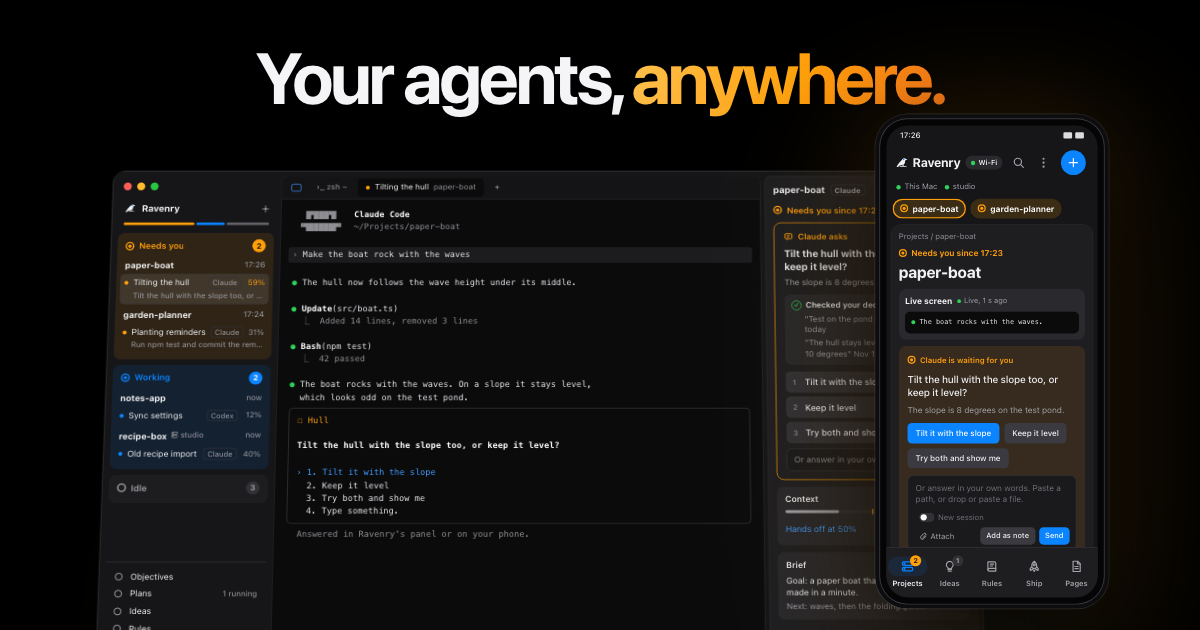
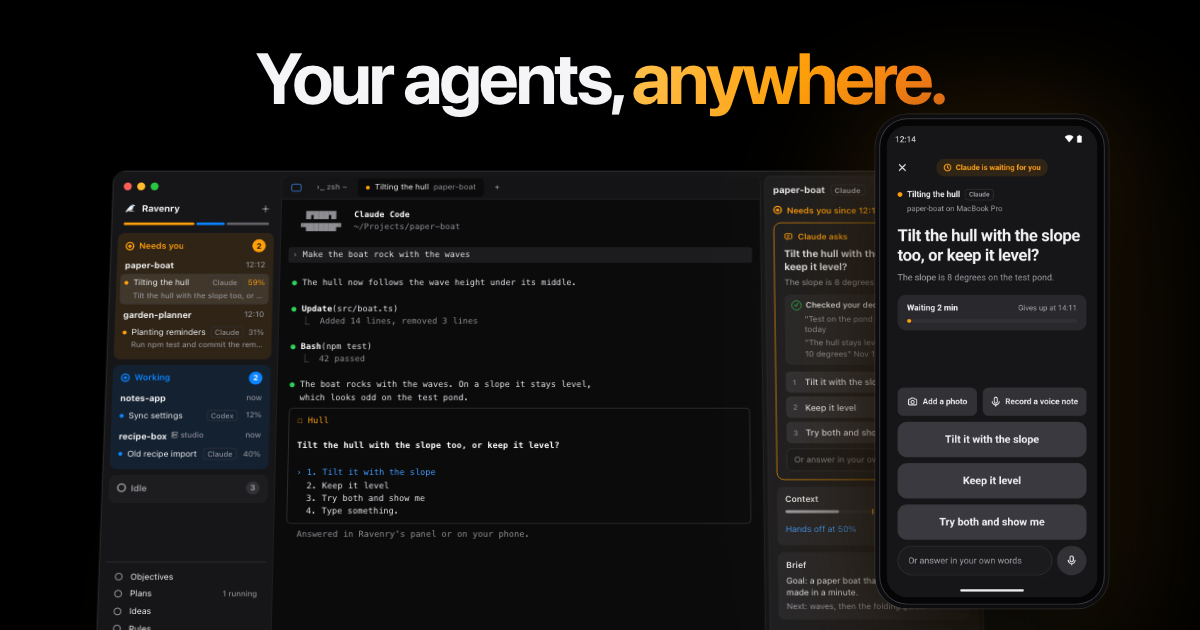
Site: the phones show the Android app's real screens, not a redraw
The hero's phone is the question card the app opens from its alert, and
the Phone section shows the same question on the board next to the real
notification shade: emulator screenshots of the Android app (0.1.61)
paired with a demo board, 600 px wide WebP (101 KB for the three).
The phone redraws and their CSS are gone. The Mac window's times now
match the phone (12:10 to 12:14, waiting 2 min). og-image regenerated;
shots.mjs serves .webp.

Changed region(s): [[0.74, 0.2111, 0.925, 0.9651]]

diff --git a/site/product.js b/site/product.js
@@ -13,31 +13,15 @@
   const boat = (tilt, hull) => `<svg viewBox="0 0 120 80"><rect width="120" height="80" fill="#D7E6F2"/><path d="M0 58 Q30 ${50 - tilt} 60 58 T120 58 V80 H0Z" fill="#6FA3CF"/><g transform="rotate(${tilt} 60 52)"><path d="M34 50 H86 L78 62 H42Z" fill="${hull}"/><path d="M60 22 V50 M60 24 L80 46 H60" stroke="#333" stroke-width="1.5" fill="#fff"/></g></svg>`;
   const nav = (n, extra = '') => `<div><svg viewBox="0 0 14 14" fill="none" stroke="currentColor" stroke-width="1.4"><circle cx="7" cy="7" r="5"/></svg>${n}${extra}</div>`;
 
-  // The phone's bottom bar, as the app draws it (hub/public/app.js, PI and
-  // renderPhoneNav): the same five icons, the lit one in a blue pill, counts as badges.
-  const pv20 = (d, extra = '') => `<svg width="22" height="22" viewBox="0 0 20 20" fill="none" stroke="currentColor" stroke-width="1.7" stroke-linecap="round" stroke-linejoin="round" aria-hidden="true"${extra}>${d}</svg>`;
-  const PI = {
-    projects: pv20('<rect x="2.5" y="3.5" width="15" height="5" rx="1.6"/><rect x="2.5" y="11.5" width="15" height="5" rx="1.6"/><circle cx="5.5" cy="6" r=".7" fill="currentColor"/><circle cx="5.5" cy="14" r=".7" fill="currentColor"/>'),
-    ideas: pv20('<path d="M7.2 14.5h5.6M7.8 17h4.4"/><path d="M10 2.8a5 5 0 0 0-3 9c.6.5 1 1.1 1 1.9h4c0-.8.4-1.4 1-1.9a5 5 0 0 0-3-9z"/>'),
-    rules: pv20('<path d="M4 3.5h9.5a2 2 0 0 1 2 2V17H6a2 2 0 0 1-2-2z"/><path d="M4 15a2 2 0 0 1 2-2h9.5M7.5 6.8h5M7.5 9.5h3.5"/>'),
-    ship: pv20('<path d="M10 2.5c2.6 1.8 3.8 4.6 3.6 8.2l-1.6 2.3H8l-1.6-2.3C6.2 7.1 7.4 4.3 10 2.5z"/><circle cx="10" cy="7.7" r="1.4"/><path d="M6.4 10.7L4 13.2l.4 2.8 3-1.6M13.6 10.7l2.4 2.5-.4 2.8-3-1.6M9 15.5l1 2 1-2"/>'),
-    pages: pv20('<path d="M5 2.5h6.8l3.7 3.7v11.3H5z"/><path d="M11.5 2.5v4h4M7.6 10.2h5M7.6 13.2h5"/>'),
-    search: pv20('<circle cx="8.8" cy="8.8" r="5.3"/><path d="M12.8 12.8l4 4"/>'),
-    kebab: '<svg width="22" height="22" viewBox="0 0 20 20" fill="currentColor" aria-hidden="true"><circle cx="10" cy="4.2" r="1.6"/><circle cx="10" cy="10" r="1.6"/><circle cx="10" cy="15.8" r="1.6"/></svg>',
-    plus: pv20('<path d="M10 4v12M4 10h12"/>', ' stroke-width="2"'),
-  };
-  const badge = (you, n) => (you ? `<b class="you">${you}</b>` : n ? `<b>${n}</b>` : '');
-  const tabbar = () => `<div class="rv-tabbar">${[['projects', 'Projects', badge(2, 0)], ['ideas', 'Ideas', badge(0, 1)], ['rules', 'Rules', ''], ['ship', 'Ship', ''], ['pages', 'Pages', '']].map(([k, label, b], i) => `<div${i === 0 ? ' class="on"' : ''}><span class="pill">${PI[k]}${b}</span>${label}</div>`).join('')}</div>`;
-
   const sidebar = (o = {}) => `
     <div class="rv-side">
       <div class="rv-lights"><i></i><i></i><i></i></div>
       <div class="rv-brand">${mark(18)}Ravenry<span class="plus">+</span></div>
       <div class="rv-tri"><i></i><i></i><i></i></div>
       <div class="rv-sec you"><div class="rv-sh">${ring}Needs you<span class="rv-cnt">2</span></div>
-        <div class="rv-proj">paper-boat<span>17:26</span></div>
+        <div class="rv-proj">paper-boat<span>12:12</span></div>
         <div class="rv-row on"><div class="rv-r1"><i class="rv-dot you"></i>Tilting the hull<span class="rv-tag">Claude</span><span class="rv-pct hot">59%</span></div><div class="rv-r2">Tilt the hull with the slope too, or keep it level?</div></div>
-        <div class="rv-proj">garden-planner<span>17:24</span></div>
+        <div class="rv-proj">garden-planner<span>12:10</span></div>
         <div class="rv-row"><div class="rv-r1"><i class="rv-dot you"></i>Planting reminders<span class="rv-tag">Claude</span><span class="rv-pct">31%</span></div><div class="rv-r2">Run npm test and commit the reminders?</div></div>
       </div>
       <div class="rv-sec work"><div class="rv-sh">${ring}Working<span class="rv-cnt">2</span></div>
@@ -76,7 +60,7 @@
 
   const askCard = (o = {}) => `
     <div class="rv-card">
-      <div class="rv-ch">${askIc}Claude asks<span>waiting 3 min</span></div>
+      <div class="rv-ch">${askIc}Claude asks<span>waiting 2 min</span></div>
       <div class="rv-q">Tilt the hull with the slope too, or keep it level?</div>
       <div class="rv-p">The slope is 8 degrees on the test pond.</div>
       ${o.dec === false ? '' : `<div class="rv-dec"><b>Checked your decisions first</b><p>"Test on the pond before the bath" today</p><p>"The hull stays level on slopes under 10 degrees" Nov 13</p></div>`}
@@ -114,7 +98,7 @@
   const panel = `
     <div class="rv-panel">
       <div class="rv-ph">paper-boat<span class="rv-tag">Claude</span></div>
-      <div class="rv-since">${ring}Needs you since 17:23</div>
+      <div class="rv-since">${ring}Needs you since 12:12</div>
       ${askCard()}
       <div class="rv-box" style="margin-top:10px"><h5>Context<span>312k of 1M</span></h5><div class="rv-bar"><i></i><b></b></div><div style="display:flex;justify-content:space-between;align-items:center"><span class="rv-link">Hands off at 50%</span><span class="rv-btn">Hand off now</span></div></div>
       <div class="rv-box"><h5>Brief<span>›</span></h5><div style="font-size:12.5px">Goal: a paper boat that floats on any pond, made in a minute.</div><div style="font-size:12px;color:var(--tx2);margin-top:4px">Next: waves, then the folding guide.</div></div>
@@ -137,42 +121,6 @@
   </div>`;
   const board = () => `<div class="rv-mac" style="width:260px;height:auto;padding:6px">${sidebar({ nav: false })}</div>`;
 
-  const phoneProjects = () => `<div class="rv-phone"><div class="rv-screen">
-    <div class="rv-sb">17:26<span><i></i><i></i></span></div>
-    <div class="rv-ah">${mark(22)}Ravenry<span class="rv-pill">Wi-Fi</span><span class="rv-fab">+</span></div>
-    <div class="rv-machines"><span>This Mac</span><span>studio</span></div>
-    <div class="rv-chips"><span class="rv-chip you on">${ring}paper-boat</span><span class="rv-chip you">${ring}garden-planner</span><span class="rv-chip work">${ring}notes-app</span><span class="rv-chip idle">3 idle ⌄</span></div>
-    <div class="rv-pc"><div class="crumb">Projects / paper-boat</div><div class="since">${ring}Needs you since 17:23</div><h3>paper-boat</h3>
-      <div class="rv-live"><h6>Live screen<span>Live, 1 s ago</span></h6><div class="scr mono"><span style="color:#30D158">●</span> The boat rocks with the waves. On a slope it stays level.
-
-<b>Tilt the hull with the slope too, or keep it level?</b>
-
-<span style="color:#409CFF">› 1. Tilt it with the slope</span>
-  2. Keep it level
-  3. Try both and show me</div></div>
-      <div style="display:flex;gap:6px;margin-top:10px"><span class="rv-btn" style="background:#3A3A40;color:#fff;box-shadow:none;flex:1;justify-content:center">1</span><span class="rv-btn" style="background:#3A3A40;color:#fff;box-shadow:none;flex:1;justify-content:center">2</span><span class="rv-btn" style="background:#3A3A40;color:#fff;box-shadow:none;flex:1;justify-content:center">3</span><span class="rv-btn pri" style="flex:2;justify-content:center">Answer</span></div></div>
-    ${tabbar()}
-  </div></div>`;
-  // Ravenry's alerts as stock Android draws them (the app's own alerts on an
-  // emulator), with the words the hub builds (hub/server/push.mjs). The icon's
-  // circle is the alert's colour: orange waits for you, green is done.
-  const chev = (up) => `<span class="cv"><svg viewBox="0 0 10 10" fill="none" stroke="currentColor" stroke-width="1.6" stroke-linecap="round" stroke-linejoin="round"><path d="${up ? 'M2 6.5l3-3 3 3' : 'M2 3.5l3 3 3-3'}"/></svg></span>`;
-  const nIc = () => `<span class="ic">${mark(13, 'transparent')}</span>`;
-  const nFull = (o) => `<div class="rv-n${o.ok ? ' ok' : ''}">${nIc()}${chev(true)}<div class="hd">Ravenry • ${o.project} • ${o.at || 'now'}</div><div class="tt">${o.title}</div><div class="bd"><b>${o.body}</b>${o.detail ? ' ' + o.detail : ''}</div><div class="acts">${o.acts.map((x) => `<span>${x}</span>`).join('')}</div></div>`;
-  const nRow = (o) => `<div class="rv-n c${o.ok ? ' ok' : ''}">${nIc()}${chev(false)}<div class="r1"><span class="tt">${o.title}</span><span>&nbsp;• ${o.project} • ${o.at || 'now'}</span></div><div class="bd"><b>${o.body}</b>${o.detail ? ' ' + o.detail : ''}</div></div>`;
-  const statusBar = '<div class="rv-nsb"><span>17:26 &nbsp;Sat, Nov 14</span><span><svg viewBox="0 0 24 24" fill="currentColor"><path d="M12 20.5L23.5 6.6C23 6.2 18.6 2.5 12 2.5S1 6.2.5 6.6z"/></svg><svg viewBox="0 0 24 24" fill="currentColor"><path d="M9 2.5h6v2h2.5v18h-11v-18H9z"/></svg>80%</span></div>';
-  const ALERTS = {
-    ask: { project: 'paper-boat', title: 'paper-boat asks', body: 'Tilt the hull with the slope too, or keep it level?', detail: 'Claude waits for you.', acts: ['Tilt it', 'Keep level', 'Answer'] },
-    approve: { project: 'notes-app', title: 'notes-app wants to run a command', body: 'npm publish --tag beta', detail: 'on MacBook Pro' },
-    secret: { project: 'garden-planner', title: 'Claude needs a secret for garden-planner', body: 'API token for the map tiles', detail: 'on MacBook Pro. Type it in the app.' },
-    permission: { project: 'weather-widget', title: 'weather-widget needs you', body: 'Do you want to make this edit to forecast.ts?' },
-    handback: { project: 'recipe-box', title: 'recipe-box needs you', body: 'The old import format works again.' },
-    decision: { project: 'paper-boat', title: 'Saved your decision', body: 'Keep the hull level for now; try tilting on the pond later.', detail: 'Claude recorded it for paper-boat.', ok: true },
-  };
-  const phoneShade = () => `<div class="rv-phone" style="height:640px"><div class="rv-screen"><div class="rv-shade">${statusBar}<div class="rv-sheet">
-    ${nFull(ALERTS.ask)}${nRow(ALERTS.approve)}${nRow(ALERTS.secret)}${nRow(ALERTS.permission)}${nRow(ALERTS.handback)}${nRow(ALERTS.decision)}
-  </div></div></div></div>`;
-
   const termOnly = () => `<div class="rv-mac" style="width:900px;height:520px;padding:0;gap:0"><div class="rv-mid" style="border-radius:12px"><div class="rv-tabs"><span style="display:flex;gap:7px;margin:0 10px 0 4px" class="rv-lights"><i></i><i></i><i></i></span><span class="rv-tab">›_ zsh ~</span><span class="rv-tab on"><i class="rv-dot work"></i>Sync settings <span class="p">notes-app</span></span><span class="rv-tab">Old recipe import <span class="p">recipe-box</span></span><span class="rv-tab">+</span></div>
     <div style="display:flex;flex:1;min-height:0"><div class="rv-term mono" style="flex:1;border-right:1px solid #2A2A2E"><span class="g">~/Projects/notes-app ›</span> codex
 <span class="w">Codex</span> <span class="g">in ~/Projects/notes-app</span>
@@ -191,25 +139,12 @@
 <span class="g">17:24:02</span> page reload src/settings/sync.ts
 <span class="g">17:24:09</span> page reload src/settings/store.ts</div></div></div></div>`;
 
-  // The hero's phone: the app on paper-boat, answering the question the Mac
-  // window shows, as the board's answer card draws a checkpoint on a phone
-  // (hub/public/app.js, cpTopHtml and the composer under it).
-  const phoneAsk = () => `<div class="rv-phone rv-phone-a rv-phone-q"><div class="rv-screen">
-    <div class="rv-sb">17:26<span><i></i><i></i></span></div>
-    <div class="rv-ah">${mark(22)}Ravenry<span class="rv-pill">Wi-Fi</span><span class="rv-ib">${PI.search}</span><span class="rv-ib">${PI.kebab}</span><span class="rv-fab">${PI.plus}</span></div>
-    <div class="rv-machines"><span>This Mac</span><span>studio</span></div>
-    <div class="rv-chips"><span class="rv-chip you on">${ring}paper-boat</span><span class="rv-chip you">${ring}garden-planner</span></div>
-    <div class="rv-pc"><div class="crumb">Projects / paper-boat</div><div class="since">${ring}Needs you since 17:23</div><h3>paper-boat</h3>
-      <div class="rv-live sm"><h6>Live screen<span>Live, 1 s ago</span></h6><div class="scr mono"><span style="color:#30D158">●</span> The boat rocks with the waves.</div></div>
-      <div class="rv-ak"><div class="hd">${ring}Claude is waiting for you</div>
-        <div class="q">Tilt the hull with the slope too, or keep it level?</div>
-        <div class="b">The slope is 8 degrees on the test pond.</div>
-        <div class="opts"><span class="rv-btn pri">Tilt it with the slope</span><span class="rv-btn">Keep it level</span><span class="rv-btn">Try both and show me</span></div>
-        <div class="cmp"><div class="ph">Or answer in your own words. Paste a path, or drop or paste a file.</div><div class="ns"><span class="sw"><i></i></span>New session</div><div class="row"><span class="at"><svg width="13" height="13" viewBox="0 0 14 14" fill="none" stroke="currentColor" stroke-width="1.7" aria-hidden="true"><path d="M12 6.5L7 11.5a3 3 0 0 1-4.2-4.2L8 2.1a2 2 0 0 1 2.8 2.8L5.7 10"/></svg>Attach</span><span class="sp"></span><span class="rv-btn sm">Add as note</span><span class="rv-btn sm pri">Send</span></div></div>
-      </div></div>
-    ${tabbar()}
-  </div></div>`;
-  const SIZES = { mac: [1280, 800, mac], board: [260, 0, board], ask: [340, 0, askCard], approve: [340, 0, approveCard], secret: [340, 0, secretCard], pick: [340, 0, pickCard], decisions: [420, 0, decisions], handoff: [420, 0, handoff], phone: [380, 800, phoneProjects], shade: [380, 660, phoneShade], term: [900, 520, termOnly], appQ: [380, 800, phoneAsk] };
+  // The phones: the Android app's real screens, emulator screenshots on
+  // the demo board (paper-boat asks the question the Mac window shows).
+  // card: the alert tapped, the app open on the question; board: the same
+  // question in place on the board; alerts: the notification shade.
+  const phoneShot = (name, eager) => () => `<div class="rv-phone"><div class="rv-screen"><img src="assets/phone-${name}.webp" alt="" width="600" height="1334"${eager ? '' : ' loading="lazy"'}></div></div>`;
+  const SIZES = { mac: [1280, 800, mac], board: [260, 0, board], ask: [340, 0, askCard], approve: [340, 0, approveCard], secret: [340, 0, secretCard], pick: [340, 0, pickCard], decisions: [420, 0, decisions], handoff: [420, 0, handoff], phone: [380, 800, phoneShot('board')], shade: [380, 800, phoneShot('alerts')], term: [900, 520, termOnly], appQ: [380, 800, phoneShot('card', true)] };
   function mount() {
     for (const el of document.querySelectorAll('[data-rv]')) {
       const [w, h, fn] = SIZES[el.dataset.rv];

diff --git a/site/product.css b/site/product.css
@@ -128,97 +128,8 @@
 .rv-li small { color:var(--tx2); font-size:11.5px; }
 .rv-li small b { color:var(--tx); font-weight:500; }
 
-/* Android phone (412 x 892 logical, drawn at 360 wide) */
-.rv-phone { width:360px; height:780px; border-radius:44px; background:#0c0c0d; padding:10px; box-shadow:0 0 0 2px #2c2c30, 0 0 0 9px #111113; }
-.rv-screen { width:100%; height:100%; border-radius:35px; background:#1A1A1C; overflow:hidden; position:relative; color:#F2F2F4; }
-.rv-screen.light { background:#F1F0ED; color:#1D1D1F; }
-.rv-sb { height:32px; display:flex; align-items:center; padding:0 22px; font-size:12.5px; font-weight:500; }
-.rv-sb span { margin-left:auto; display:flex; gap:5px; align-items:center; }
-.rv-sb span i { width:14px; height:10px; border-radius:2px; background:currentColor; opacity:.9; }
-.rv-ah { display:flex; align-items:center; gap:8px; padding:12px 14px 8px; font-weight:700; font-size:20px; }
-.rv-pill { font-size:11.5px; font-weight:600; border-radius:12px; padding:3px 9px; background:#2A2A2E; display:flex; gap:5px; align-items:center; }
-.rv-pill::before { content:""; width:7px; height:7px; border-radius:50%; background:var(--ok); }
-.rv-fab { margin-left:auto; width:38px; height:38px; border-radius:50%; background:var(--work); display:grid; place-items:center; font-weight:300; font-size:26px; color:#fff; }
-.rv-machines { display:flex; gap:12px; padding:2px 16px 10px; color:#A1A1A8; font-size:12.5px; }
-.rv-machines span::before { content:""; display:inline-block; width:7px; height:7px; border-radius:50%; background:var(--ok); margin-right:6px; }
-.rv-chips { display:flex; flex-wrap:wrap; gap:7px; padding:0 10px 10px; }
-.rv-chip { display:flex; gap:7px; align-items:center; border-radius:18px; padding:7px 12px; font-weight:650; font-size:13.5px; }
-.rv-chip.you { background:rgba(255,159,10,.16); color:#fff; } .rv-chip.you .rv-ring { color:var(--you); }
-.rv-chip.you.on { box-shadow:0 0 0 2px var(--you) inset; }
-.rv-chip.work { background:rgba(10,132,255,.18); } .rv-chip.work .rv-ring { color:var(--work); }
-.rv-chip.idle { background:#2A2A2E; color:#A1A1A8; }
-.rv-pc { margin:0 8px; border-radius:16px; background:#222225; padding:12px 14px; }
-.rv-pc .crumb { color:#8E8E93; font-size:12.5px; }
-.rv-pc .since { color:var(--you); font-weight:650; font-size:13.5px; display:flex; gap:7px; align-items:center; margin:12px 0 2px; }
-.rv-pc h3 { font-size:26px; letter-spacing:-.5px; margin:4px 0 8px; }
-.rv-live { background:#2A2A2E; border-radius:12px; padding:10px; }
-.rv-live h6 { margin:0 0 8px; font-size:13.5px; display:flex; gap:8px; align-items:center; }
-.rv-live h6 span { font-weight:400; color:#A1A1A8; font-size:12px; }
-.rv-live h6 span::before { content:""; display:inline-block; width:6px; height:6px; border-radius:50%; background:var(--ok); margin-right:5px; }
-.rv-live .scr { background:#0B0B0C; border-radius:8px; padding:9px 10px; font-size:11px; line-height:1.5; white-space:pre-wrap; color:#E6E6EA; }
-/* The bottom bar as the app draws it (hub/public/app.css, .bnav and .pn-d). */
-.rv-tabbar { position:absolute; bottom:0; left:0; right:0; height:80px; background:#1E1E21; box-shadow:0 -1px 0 #36363B; display:flex; z-index:1; }
-.rv-tabbar > div { flex:1; display:flex; flex-direction:column; align-items:center; justify-content:center; gap:4px; font-size:12px; font-weight:600; color:#A1A1A8; }
-.rv-tabbar .pill { width:64px; height:32px; border-radius:16px; display:flex; align-items:center; justify-content:center; position:relative; }
-.rv-tabbar svg { display:block; flex:none; }
-.rv-tabbar > div.on { color:#F2F2F4; } .rv-tabbar > div.on .pill { background:rgba(10,132,255,.11); color:#0A84FF; }
-.rv-tabbar b { position:absolute; top:-2px; left:36px; min-width:18px; height:18px; border-radius:9px; padding:0 5px; font-size:11px; font-weight:700; display:inline-flex; align-items:center; justify-content:center; line-height:1; background:#313136; color:#A1A1A8; }
-.rv-tabbar b.you { background:var(--you); color:#1D1D1F; }
-
-/* Android notification shade, as stock Android 14 draws Ravenry's alerts
-   (dark): measured from the app's own alerts on an emulator, 1080 px wide
-   scaled to the 340 px screen. The small icon's circle is the alert's
-   colour (AlertColor in Notifier.kt): orange waits for you, green is done. */
-.rv-shade { background:#000; height:100%; padding:6px 0 0; font-family:Roboto,"Helvetica Neue",Arial,sans-serif; }
-.rv-nsb { height:32px; display:flex; justify-content:space-between; align-items:center; padding:0 22px 4px; font-size:11.5px; color:#F0F0F3; }
-.rv-nsb span { display:flex; gap:5px; align-items:center; } .rv-nsb svg { width:12px; height:12px; }
-.rv-sheet { background:#191C1E; border-radius:24px 24px 0 0; padding:13px; height:100%; }
-.rv-n { position:relative; background:#2E3133; border-radius:4px; margin-bottom:2px; padding:0 13px 0 43px; color:#C0C7CD; font-size:11.5px; line-height:16.5px; }
-.rv-n:first-child { border-top-left-radius:22px; border-top-right-radius:22px; }
-.rv-n:last-child { border-bottom-left-radius:22px; border-bottom-right-radius:22px; margin-bottom:0; }
-.rv-n .ic { position:absolute; left:13px; top:13px; width:20px; height:20px; border-radius:50%; background:var(--you); color:#2E3133; display:grid; place-items:center; }
-.rv-n.ok .ic { background:var(--ok); }
-.rv-n .cv { position:absolute; right:13px; top:13px; width:20px; height:20px; border-radius:50%; background:#191C1E; color:#F0F0F3; display:grid; place-items:center; }
-.rv-n .cv svg { width:10px; height:10px; }
-.rv-n .hd { height:40px; display:flex; align-items:center; font-size:10.5px; padding-right:30px; }
-.rv-n .tt { font-size:13px; line-height:18px; color:#F0F0F3; }
-.rv-n .bd { margin-top:5px; } .rv-n .bd b { font-weight:600; }
-.rv-n .acts { display:flex; gap:23px; height:40px; align-items:center; margin-top:8px; padding-bottom:4px; color:#C1E8FF; font-weight:500; }
-/* A collapsed alert: the title, its project and time on one line, the body under it. */
-.rv-n.c { height:68px; padding:16px 46px 0 43px; }
-.rv-n.c .ic, .rv-n.c .cv { top:24px; }
-.rv-n.c .r1 { display:flex; align-items:baseline; white-space:nowrap; min-width:0; }
-.rv-n.c .r1 .tt { overflow:hidden; text-overflow:ellipsis; flex:0 1 auto; min-width:0; }
-.rv-n.c .r1 span { font-size:10.5px; flex:none; }
-.rv-n.c .bd { margin-top:0; white-space:nowrap; overflow:hidden; text-overflow:ellipsis; }
-
-/* The hero's phone frame */
-.rv-phone-a { background:#050506; box-shadow:0 0 0 1.5px #3a3a3f, 0 0 0 8px #0d0d0f, 0 0 0 9px rgba(255,255,255,.14); }
-
-/* The hero's phone: the app answering the question (cpTopHtml and the composer). */
-.rv-phone-q { height:780px; }
-.rv-phone-q .rv-screen { background:#161618; }
-.rv-ah .rv-ib { width:40px; height:40px; display:grid; place-items:center; color:#A1A1A8; flex:none; }
-.rv-ah .rv-ib:first-of-type { margin-left:auto; }
-.rv-ah .rv-ib + .rv-ib { margin-left:-6px; }
-.rv-phone-q .rv-ah { gap:6px; padding:8px 8px 8px 14px; }
-.rv-phone-q .rv-ah .rv-pill { margin-left:2px; }
-.rv-phone-q .rv-fab { margin-left:2px; width:40px; height:40px; }
-.rv-phone-q .rv-pc { background:#1E1E21; padding:10px 12px 12px; box-shadow:0 0 0 1px #2A2A2E; }
-.rv-phone-q .rv-pc .since { margin-top:8px; } .rv-phone-q .rv-pc h3 { margin:2px 0 10px; }
-.rv-live.sm .scr { white-space:pre-wrap; }
-.rv-ak { margin-top:10px; background:rgba(255,159,10,.11); border-radius:12px; padding:14px; display:flex; flex-direction:column; gap:11px; }
-.rv-ak .hd { display:flex; align-items:center; gap:7px; color:var(--you); font-size:12.5px; font-weight:600; }
-.rv-ak .q { font-size:16px; line-height:1.4; font-weight:500; }
-.rv-ak .b { color:#A1A1A8; font-size:13.5px; line-height:1.45; margin-top:-4px; }
-.rv-ak .opts { display:flex; flex-wrap:wrap; gap:8px; }
-.rv-ak .rv-btn { box-shadow:none; padding:7px 13px; min-height:32px; font-size:13px; border-radius:7px; }
-.rv-ak .rv-btn.sm { padding:4px 10px; min-height:28px; font-size:12px; }
-.rv-ak .cmp { background:#1A1A1D; border:1px solid #36363B; border-radius:10px; padding:10px 10px 8px 12px; display:flex; flex-direction:column; gap:8px; }
-.rv-ak .ph { color:#6E6E75; font-size:13.5px; line-height:1.45; min-height:40px; }
-.rv-ak .ns { display:flex; align-items:center; gap:6px; font-size:12.5px; color:#6E6E75; padding:0 6px; }
-.rv-ak .ns .sw { position:relative; width:24px; height:14px; border-radius:7px; background:#313136; box-shadow:inset 0 0 0 1px #36363B; }
-.rv-ak .ns .sw i { position:absolute; top:2px; left:2px; width:10px; height:10px; border-radius:50%; background:#fff; }
-.rv-ak .row { display:flex; align-items:center; gap:6px; }
-.rv-ak .row .at { display:inline-flex; align-items:center; gap:5px; color:#A1A1A8; font-size:12.5px; padding:4px 6px; }
-.rv-ak .row .sp { flex:1; }
+/* Android phone frame around the app's real screens: emulator screenshots
+   (assets/phone-*.webp) of the Android app paired with a demo board. */
+.rv-phone { width:360px; height:780px; border-radius:44px; padding:10px; background:#050506; box-shadow:0 0 0 1.5px #3a3a3f, 0 0 0 8px #0d0d0f, 0 0 0 9px rgba(255,255,255,.14); }
+.rv-screen { width:100%; height:100%; border-radius:35px; background:#000; overflow:hidden; }
+.rv-screen img { display:block; width:100%; height:100%; object-fit:cover; object-position:top; }

diff --git a/site/index.html b/site/index.html
@@ -84,7 +84,7 @@ window.RAVENRY_SITE = {
   <div class="eyebrow" style="color:var(--you)">Phone</div>
   <h2>Leave your desk.<br>Not your agents.</h2>
   <p class="body">The Android app shows every project and its live screen. When an agent asks, answer right from the notification. <b>On iPhone, you get the alerts too.</b></p>
-  <div class="phones"><div data-rv="phone" role="img" aria-label="The Android app: a project and its live screen"></div><div data-rv="shade" role="img" aria-label="Ravenry's notifications on an Android phone"></div></div>
+  <div class="phones"><div data-rv="phone" role="img" aria-label="The Android app on paper-boat: its live screen, and the question card under it with its options and an answer box"></div><div data-rv="shade" role="img" aria-label="Ravenry's alerts in the Android notification shade: a question with its answers, a command to approve and a secret"></div></div>
 </div></section>
 
 <section class="big" id="terminal"><div class="wrap">

diff --git a/site/README.md b/site/README.md
@@ -9,8 +9,8 @@ trackers: it uses the system fonts and the files in this folder only.
 | --- | --- |
 | `index.html` | The page. Its settings block is at the very top (below). |
 | `site.css` | The page's look. |
-| `product.css`, `product.js` | The product pictures (the Mac app, the phone, the cards), drawn in HTML with demo content only, so they stay sharp at any size. |
-| `assets/` | The favicon and Apple touch icon (from `hub/brand/ravenry`) and `og-image.png`, the 1200x630 link preview. |
+| `product.css`, `product.js` | The product pictures. The Mac app and the cards are drawn in HTML with demo content only, so they stay sharp at any size. The phones are the Android app's real screens in a drawn frame: `assets/phone-*.webp`. |
+| `assets/` | The favicon and Apple touch icon (from `hub/brand/ravenry`), `og-image.png`, the 1200x630 link preview, and the phone screens: `phone-card.webp` (an alert tapped, the app open on the question), `phone-board.webp` (the same question on the board) and `phone-alerts.webp` (the notification shade). They are emulator screenshots of the Android app paired with a demo board (apps/desktop/tools/demo-hub.mjs, real `ravenry ask`, `approve` and `secret` checkpoints), 600 px wide for 2x screens. |
 | `tools/shots.mjs` | The review pictures and the link check (below). Not needed to host the page. |
 
 ## The settings
